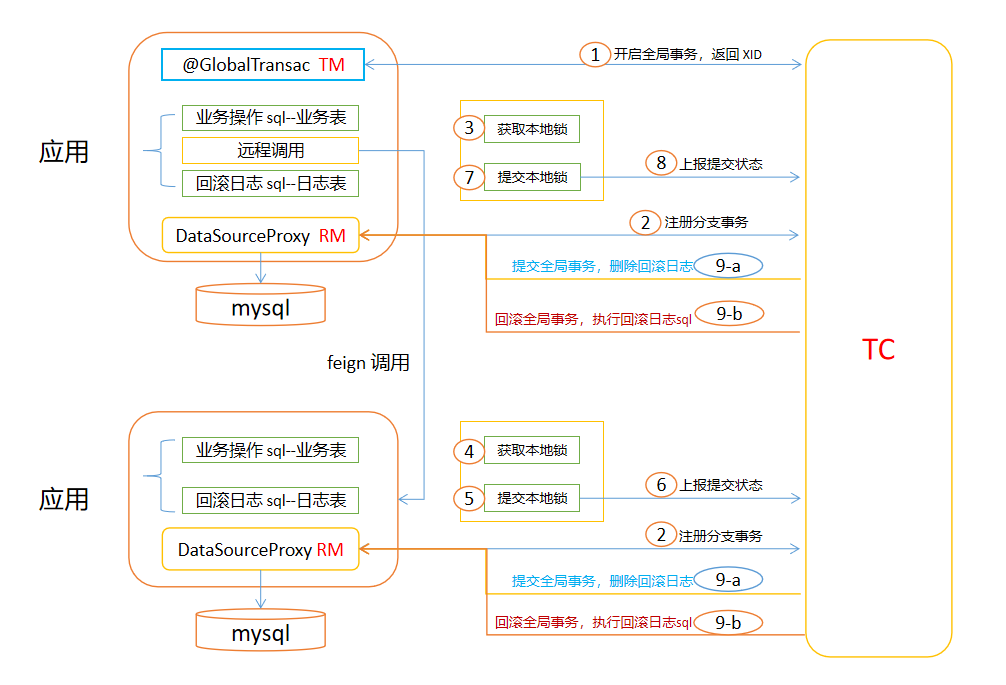
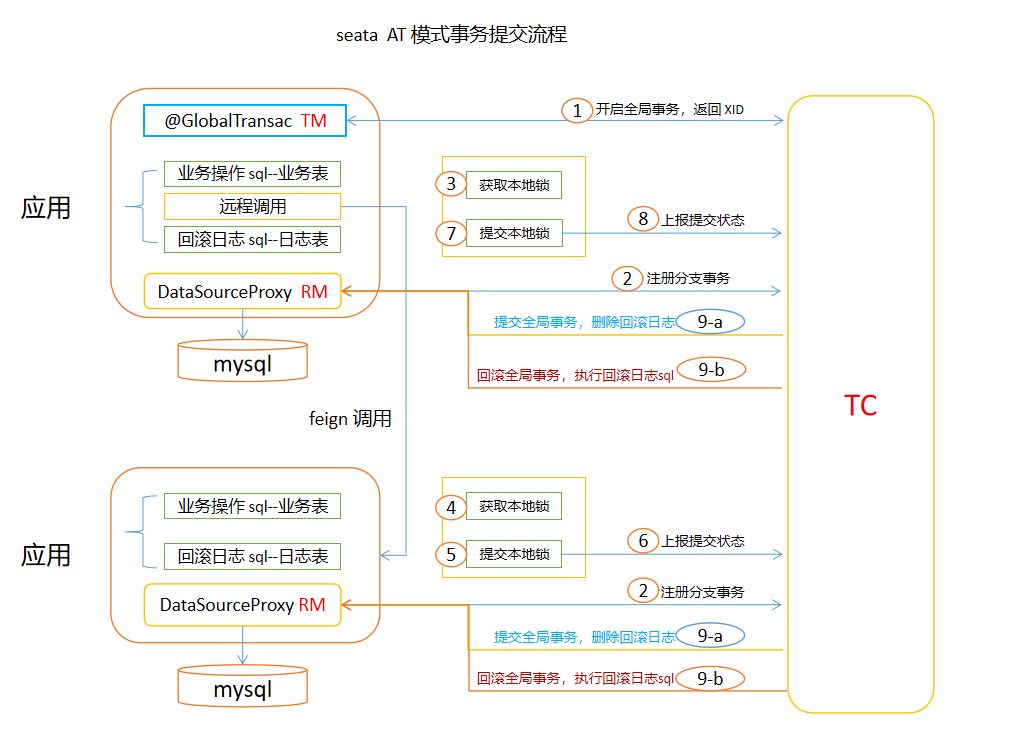
4v534w5eb5e46546

diff --git a/分布式/分布式事务.md b/分布式/分布式事务.md
@@ -24,6 +24,14 @@
 - 分布式事务的成熟框架---seata
   - Seata 是一款开源的分布式事务解决方案，提供了 AT，TCC，SAGA，XA 事务模式
   - 默认AT模式
+    - AT模式需要数据库支持ACID事务，对业务代码没有侵入性
+    - AT模式没有侵入性的原理是给用一个代理的 DataSource 代替应用原来的 DataSource
+    - 这个代理的 DataSource 会把业务的sql解析出一份回滚的 undo log日志
+    - 并且把这个回滚日志与业务操作放到一个本地事务里面
+    - undo log 保存了数据修改前后的镜像版本
+    - 全局事务提交时，会删除 undo log 的纪录
+    - 全局事务回滚时，会根据 undo log 执行对应的 sql, 执行前会对比镜像前的数据与当前数据是否一样
+    - 不一样说明全局事务执行期间，数据被修改过，需要指定对应的策略
     ![2pc](https://github.com/caesar-empereur/read-book/blob/master/photo/distri/seata-at模式.png)
 
 ## **[使用本地消息表]()**
